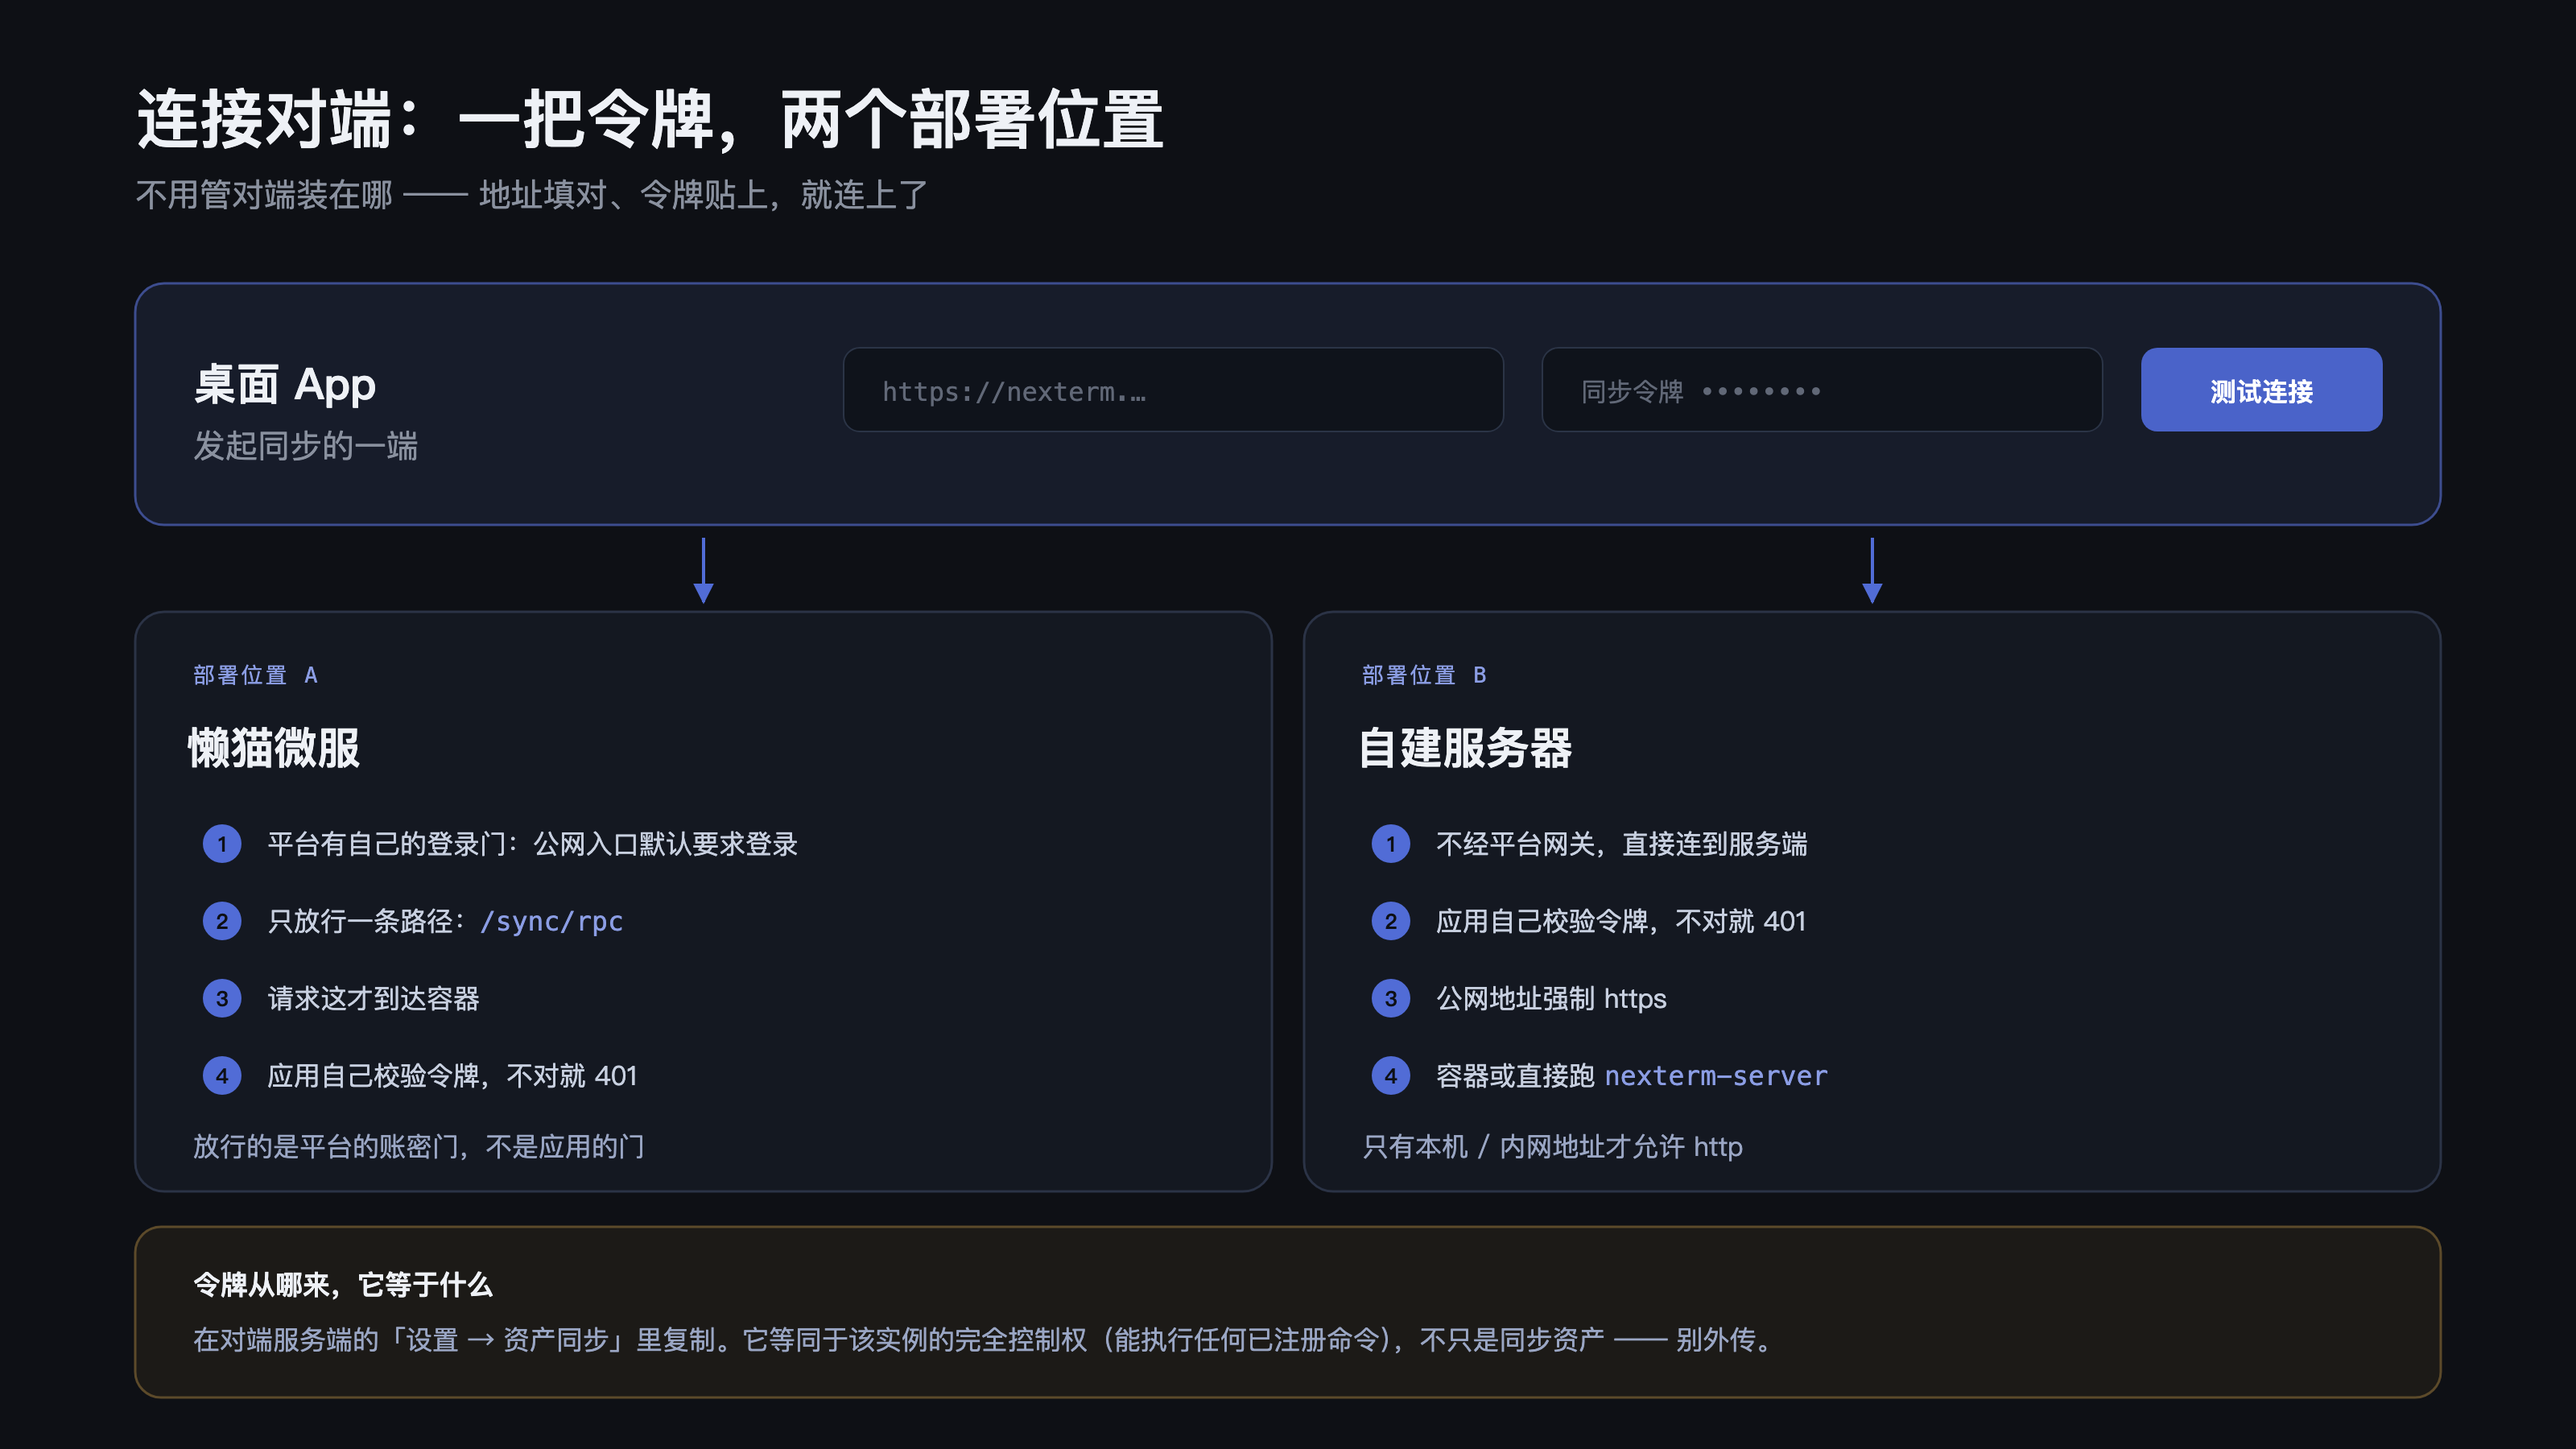
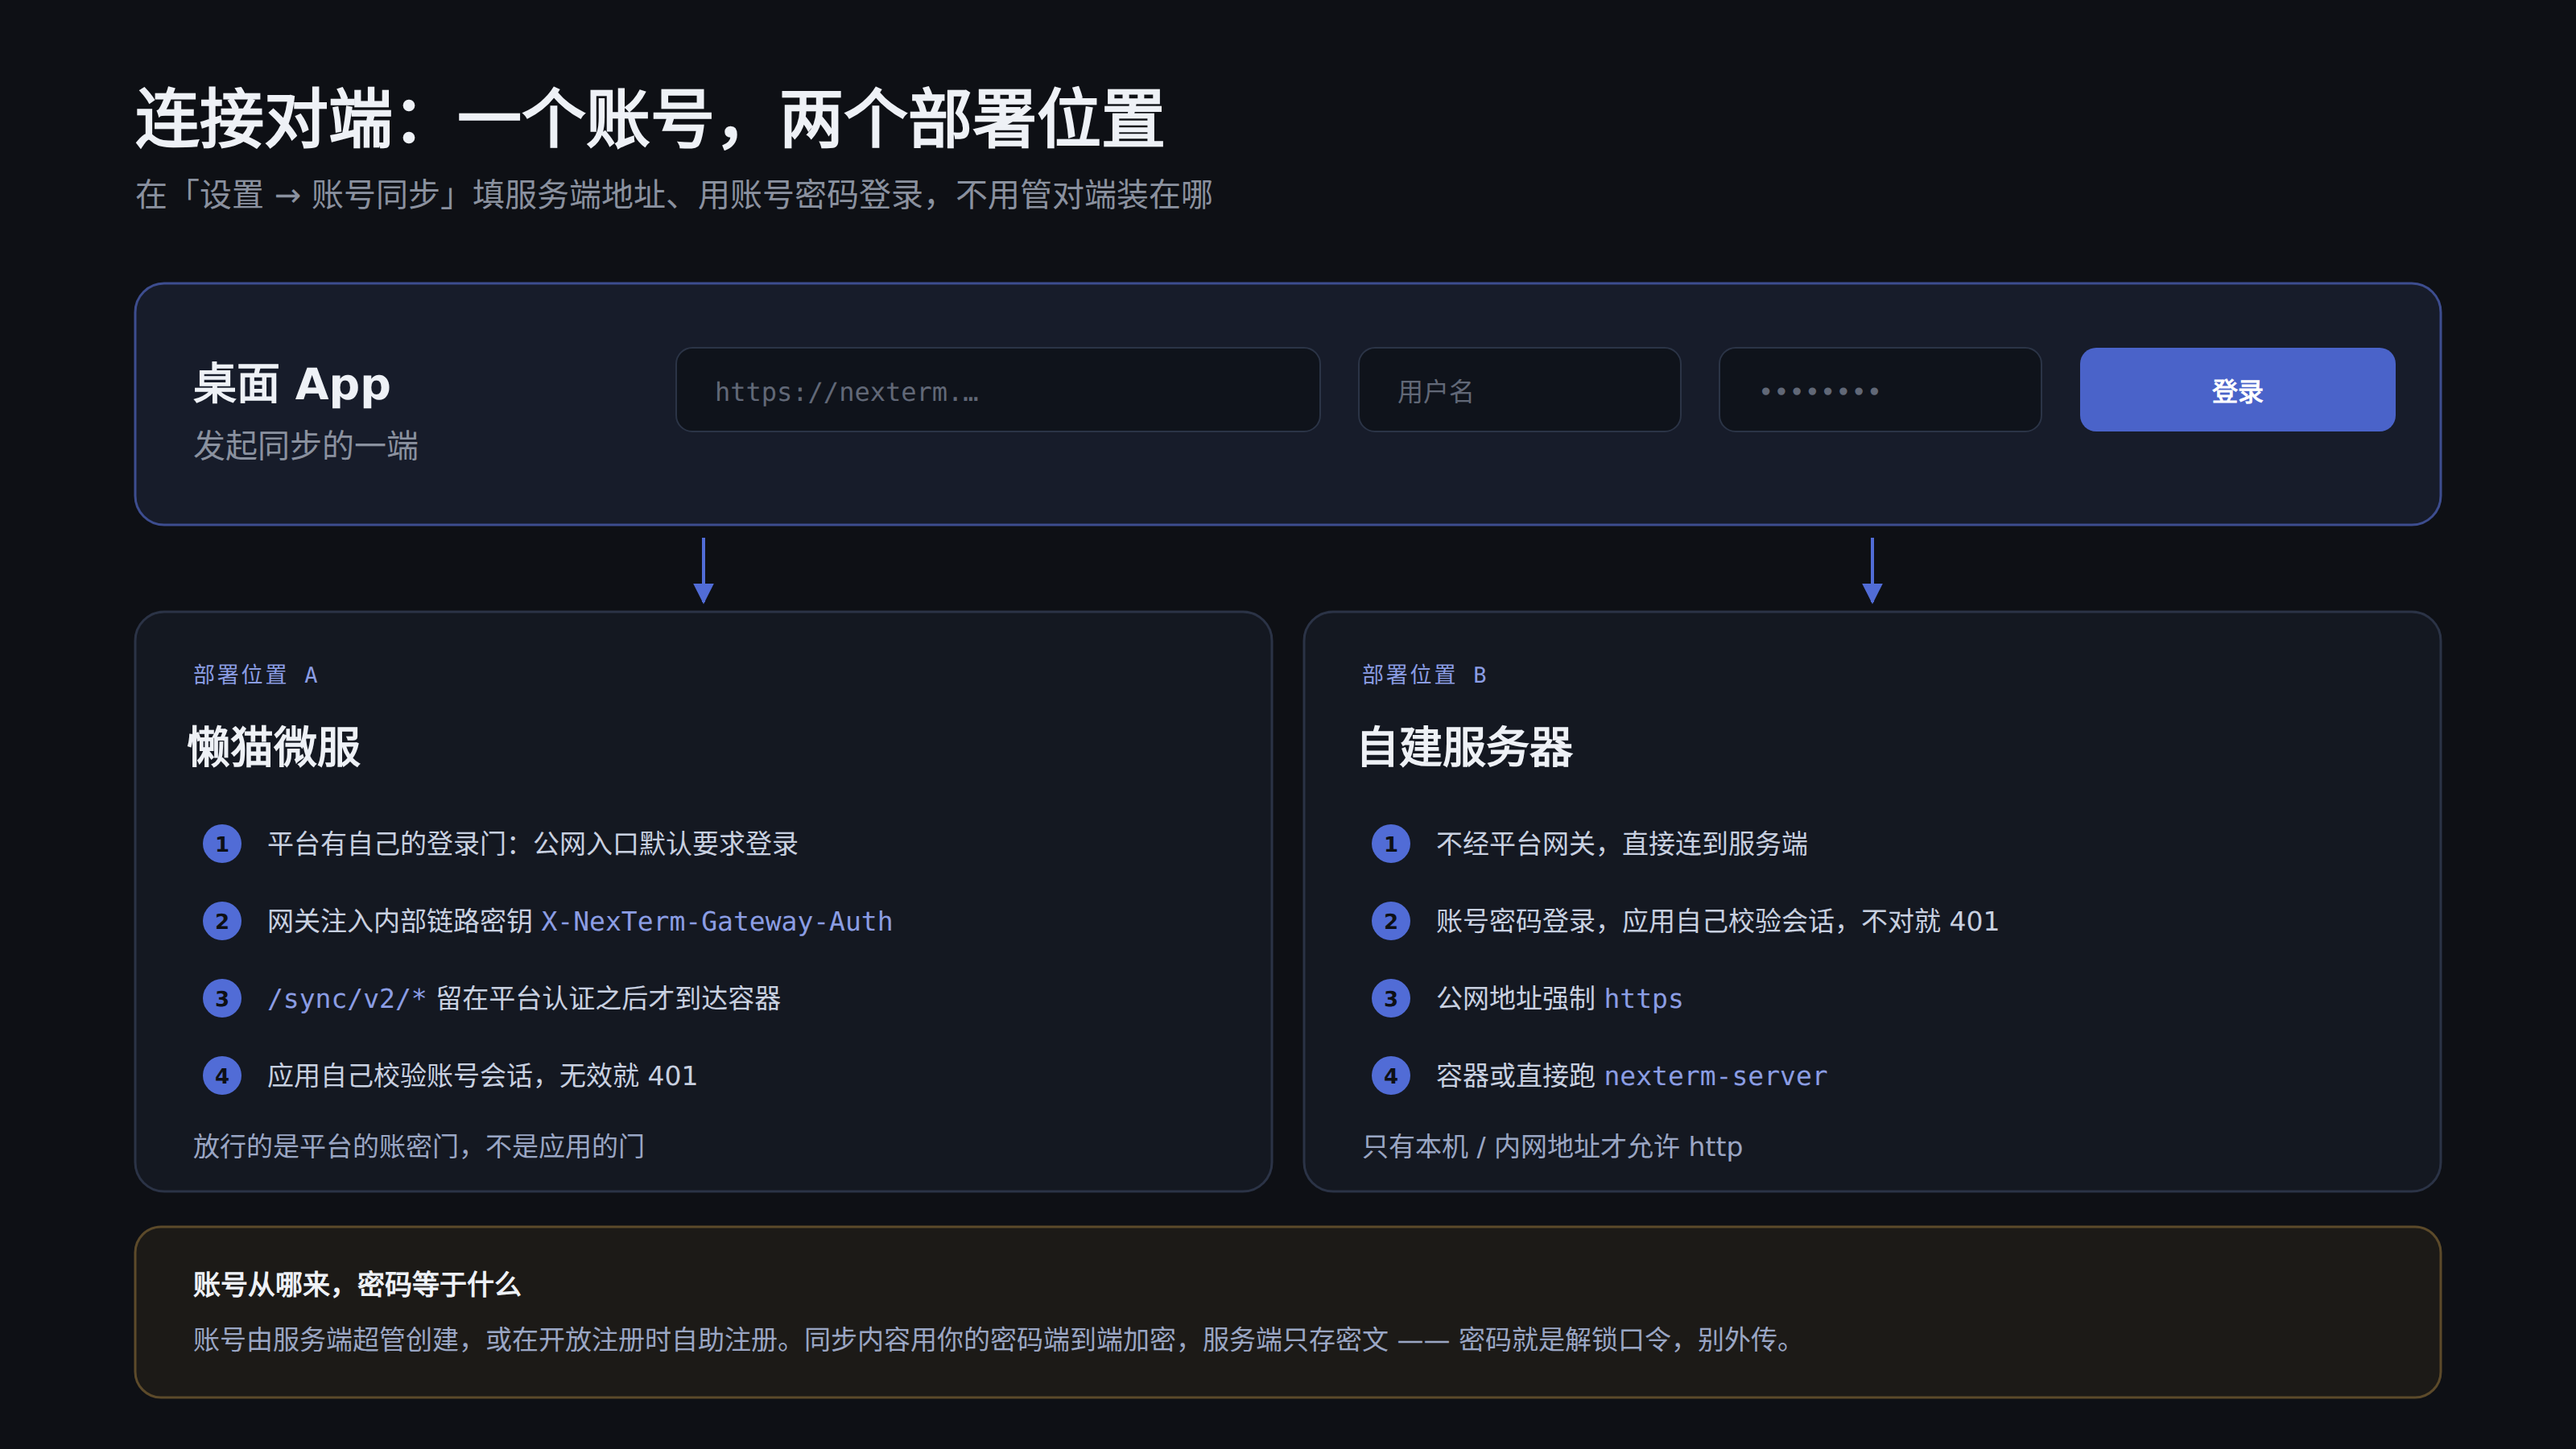
docs(release): align rc7 docs with multiuser account model, bump 0.2.2-rc.7 (M181)

diff --git a/website/index.html b/website/index.html
@@ -264,24 +264,24 @@
       </div>
       <div class="cell">
         <span class="tag">CREDENTIALS</span>
-        <h3>凭据落地重封</h3>
-        <p>两端密钥体系各自独立，密文搬过去解不开。源端解密 → HTTPS 传输 → 目标端用<em>它自己的</em>密钥重新加密。</p>
+        <h3>凭据端到端加密</h3>
+        <p>同步内容在你的设备上加密，服务端只存密文。同一账号的其他设备用账号密码解锁数据密钥后解密使用，明文不出本机。</p>
       </div>
     </div>
 
     <div class="split">
       <div>
         <span class="pk">nexterm --connect</span>
-        <h3 class="sub-h">一把令牌，两个部署位置</h3>
-        <p>填「对端地址 + 同步令牌」就能连上，不用管对端装在哪 —— 懒猫微服或自建服务器，令牌是同一个机制。</p>
+        <h3 class="sub-h">一个账号，两个部署位置</h3>
+        <p>在「设置 → 账号同步」填「服务端地址 + 用户名 + 密码」登录就能连上，不用管对端装在哪 —— 懒猫微服或自建服务器，账号是同一套机制。</p>
         <ul class="points">
-          <li><b>懒猫微服</b>：平台公网入口默认要求登录，应用只把同步入口这一条路径放行，请求这才到达容器。</li>
+          <li><b>懒猫微服</b>：平台公网入口默认要求登录，网关注入内部链路密钥后请求才到达容器。</li>
           <li><b>自建服务器</b>：不经平台网关，直接连到服务端。</li>
-          <li>两种方式都由<b>应用自己</b>校验令牌，不对就拒绝。</li>
+          <li>两种方式都由<b>应用自己</b>校验账号会话，无效就拒绝。</li>
         </ul>
       </div>
       <div class="figure figure-tight">
-        <img src="images/03-connect.png" alt="连接对端：一把令牌，两个部署位置" loading="lazy" />
+        <img src="images/03-connect.png" alt="连接对端：一个账号，两个部署位置" loading="lazy" />
       </div>
     </div>
   </div>
@@ -332,16 +332,16 @@
 <span class="c"># 裸启动就是 serve（容器里就这条）</span>
 <span class="p">$</span> nexterm-server
 
-<span class="c"># sync-only：同一个二进制，只有 3 条同步命令</span>
+<span class="c"># sync-only：同一个二进制，只挂账号与同步路由</span>
 <span class="p">$</span> nexterm-server --sync-only \
       --data-dir /var/lib/nexterm
 
-<span class="c"># 没有界面，令牌只能命令行取</span>
-<span class="p">$</span> TOKEN=$(nexterm-server token)
+<span class="c"># 首次启动打印一次性初始化码，浏览器打开完成超管初始化</span>
+<span class="p">$</span> nexterm-server --data-dir /var/lib/nexterm
 
-<span class="c"># 自查：sync-only 的 commands 固定为 3</span>
+<span class="c"># 自查：sync-only 不注册终端命令，/rpc 返回 404</span>
 <span class="p">$</span> curl -s 127.0.0.1:8080/healthz
-  <span class="c"># commands:3</span></pre>
+  <span class="c"># "syncOnly":true,"commands":0</span></pre>
       </div>
     </div>
 
@@ -353,17 +353,17 @@
         <ul>
           <li>解压即得二进制、前端产物、systemd 单元</li>
           <li>单元默认只听 <code>127.0.0.1</code> 并显式声明 <code>--auth on</code>，对外自己接反代</li>
-          <li>访问控制默认开启（<code>--auth on</code>）：<code>/rpc</code>、<code>/ws</code>、<code>/files/blob</code> 一律要求同步令牌（<code>/healthz</code> 与页面公开），公网仍建议套 TLS 反代</li>
+          <li>访问控制默认开启（<code>--auth on</code>）：<code>/rpc</code>、<code>/ws</code>、<code>/files/blob</code> 一律要求登录账号会话（<code>/healthz</code> 与页面公开），浏览器首次打开进入初始化或登录页，公网仍建议套 TLS 反代</li>
         </ul>
         <span class="file">NexTerm-server_x.y.z_linux_amd64.tar.gz · _arm64.tar.gz</span>
       </div>
       <div class="cell">
         <span class="tag">LINUX · SYNC-ONLY 模式</span>
         <h3>公网只做同步中转</h3>
-        <p>同一个二进制加 <code>--sync-only</code>：只挂 <code>/sync/rpc</code> 与 <code>/healthz</code>。</p>
+        <p>同一个二进制加 <code>--sync-only</code>：只挂 <code>/auth/*</code>、<code>/admin/*</code>、<code>/sync/v2/*</code> 与 <code>/healthz</code>。</p>
         <ul>
-          <li>命令表只有 <code>sync_digest</code> / <code>sync_export</code> / <code>sync_import</code></li>
-          <li>令牌泄漏也拿不到终端、文件与容器</li>
+          <li>不注册任何终端命令：浏览器界面与 <code>/rpc</code> 都不存在</li>
+          <li>同步数据按账号隔离、端到端加密，服务端只存密文</li>
           <li>同一个服务端包内附 <code>nexterm-onlyserver.service</code>，换装即切换</li>
         </ul>
         <span class="file">随 NexTerm-server 同一个 tar.gz 分发</span>
@@ -389,7 +389,7 @@
       </details>
       <details>
         <summary>服务端放公网安全吗？</summary>
-        <div class="faq-body">完整版默认开启令牌鉴权（<code>--auth on</code>）：<code>/rpc</code>、<code>/ws</code> 与 <code>/files/blob</code> 没有同步令牌一律拒绝，<code>/healthz</code> 与页面静态资源公开；浏览器首次打开会提示输入令牌（<code>nexterm-server token</code> 查看）。回环免令牌仅限显式 <code>--auth loopback</code>（会校验 Host 防 DNS 重绑定），且不适合反代场景。令牌走请求头，公网部署前面必须终止 TLS，并建议用防火墙限制来源。公网只想做资产同步，请用 <code>--sync-only</code> 模式 —— 它只注册同步用的三条命令，令牌泄漏也只能读写这份资产库。懒猫微服上由平台登录门加网关注入的网关密钥放行，无需手动填令牌。</div>
+        <div class="faq-body">完整版默认开启账号鉴权（<code>--auth on</code>）：<code>/rpc</code>、<code>/ws</code> 与 <code>/files/blob</code> 没有登录会话一律拒绝，<code>/healthz</code> 与页面静态资源公开；浏览器首次打开会进入初始化或登录页（账号未初始化时，一次性初始化码打印在服务端控制台）。回环免登录仅限显式 <code>--auth loopback</code>（会校验 Host 防 DNS 重绑定），且不适合反代场景。会话走 Cookie，公网部署前面必须终止 TLS，并建议用防火墙限制来源。公网只想做资产同步，请用 <code>--sync-only</code> 模式 —— 它只挂账号与同步路由，不注册任何终端命令。懒猫微服上由平台登录门加网关注入的网关密钥放行内部链路，无需额外配置。</div>
       </details>
       <details>
         <summary>服务端和桌面版是两套代码吗？</summary>
@@ -405,7 +405,7 @@
       </details>
       <details>
         <summary>同步会把我的密码传到别人的服务器吗？</summary>
-        <div class="faq-body">只在你指定的对端之间传，且只传你勾中的资产。凭据在传输前解密、到达后立刻用对端自己的密钥重新加密落库；公网地址强制 HTTPS，明文 HTTP 只对本机与私有网段放行。</div>
+        <div class="faq-body">只在你指定的对端之间传，且只传你勾中的资产。同步内容端到端加密，服务端只存密文；账号密码只用于登录认证和在本机解锁数据密钥。公网地址强制 HTTPS，明文 HTTP 只对本机与私有网段放行。</div>
       </details>
       <details>
         <summary>凭据如何保护？</summary>

diff --git a/.github/release-template.md b/.github/release-template.md
@@ -1,4 +1,4 @@
-### 亮点（rc6）
+### 亮点（rc7）
 
 - **多用户账号体系**：服务端首次启动在控制台打印一次性初始化码，在浏览器完成超管初始化；注册默认关闭，超管可在「管理设置」开放注册或直接创建用户；支持登录设备管理、配对码添加设备、恢复密钥找回密码。
 - **账号同步取代同步令牌**：桌面端「设置 → 账号同步」用服务端地址 + 用户名 + 密码登录；资产、分组、片段、凭据端到端加密同步，服务端只存密文；known_host 与 AI 模型档案可按开关同步，会话录像默认不同步。
